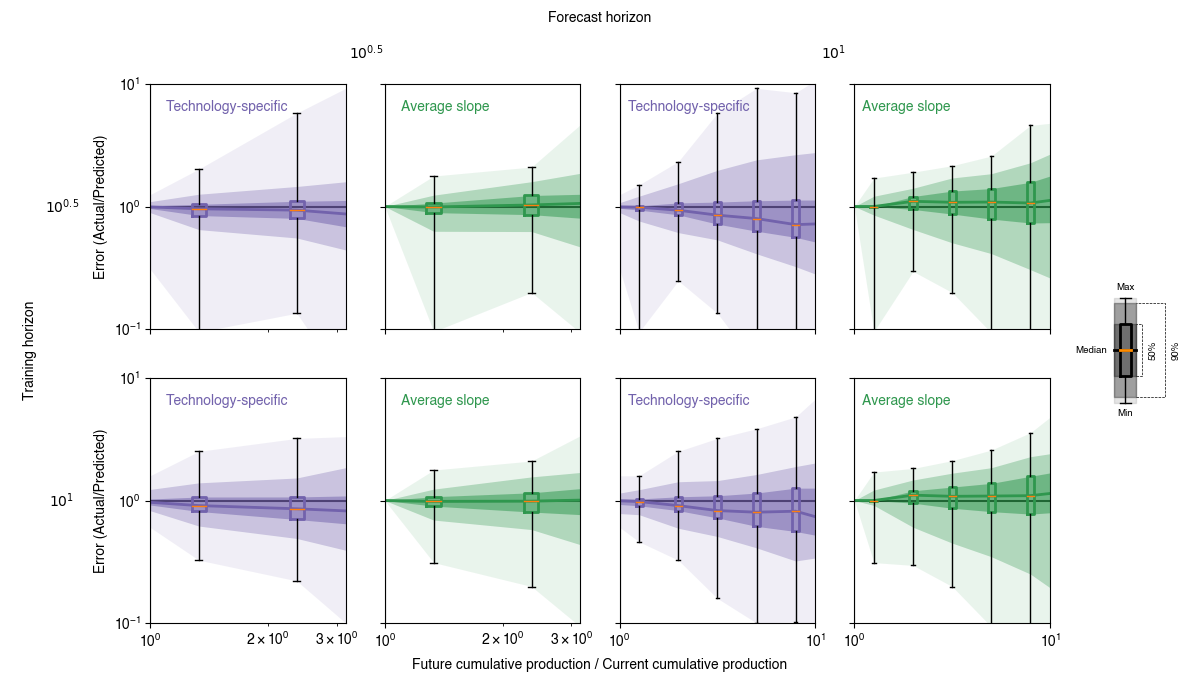
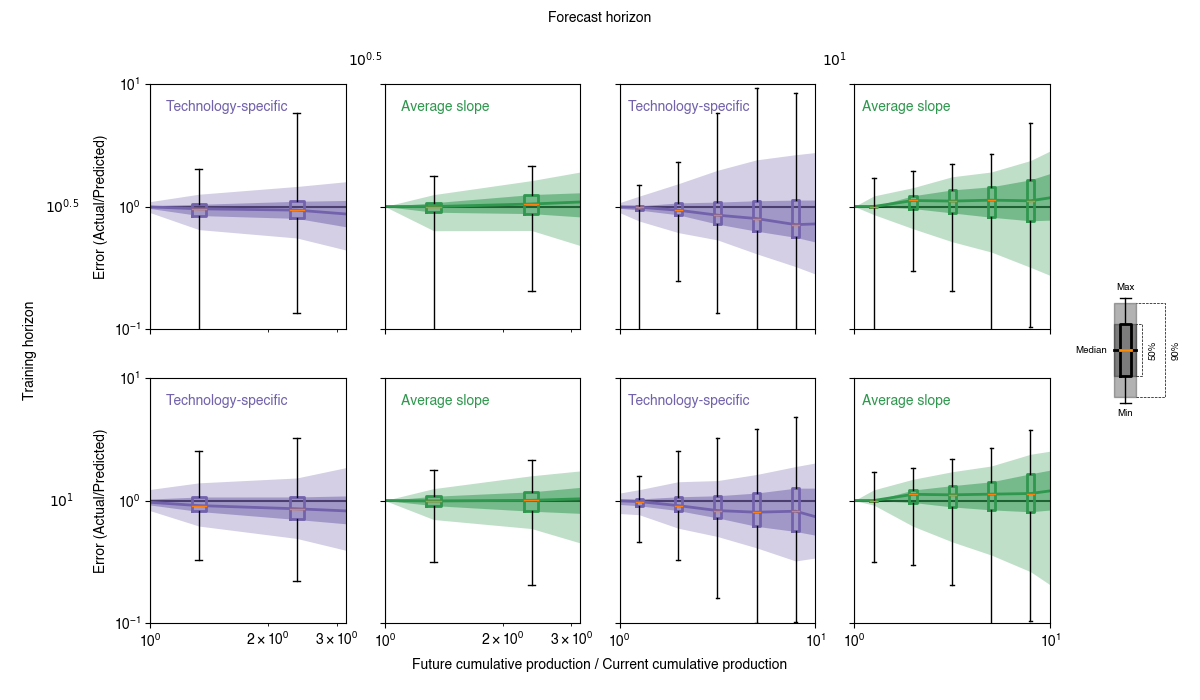
figures update after suggestions

diff --git a/plottingFunctions.py b/plottingFunctions.py
@@ -28,6 +28,15 @@ def scatterFigure(LR_cal, LR_val, length, title):
                       s = 50,
                       edgecolor='k')
     
+    vals = axscatter.scatter(LR_cal, LR_val, 
+                    #   c=length,
+                    #   norm = norm,
+                    #   cmap = cmap,
+                    #   alpha = 0.7,
+                      lw = 0.2,
+                      s = 50,
+                      edgecolor='k')
+    
     # compute R2
     if len(LR_cal) > 2:
         model = sm.OLS(LR_val, sm.add_constant(LR_cal))
@@ -46,10 +55,10 @@ def scatterFigure(LR_cal, LR_val, length, title):
     axscatter.set_xlim((-2,2))
     axscatter.set_ylim((-2,2))
     axscatter.set_aspect('equal', 'box')
-    cbar = figscatter.colorbar(vals, 
-                            cmap=cmap, norm=norm, 
-                            orientation='horizontal', shrink = 0.6)
-    cbar.set_label('Final cumulative production / Initial cumulative production')
+    # cbar = figscatter.colorbar(vals, 
+    #                         cmap=cmap, norm=norm, 
+    #                         orientation='horizontal', shrink = 0.6)
+    # cbar.set_label('Final cumulative production / Initial cumulative production')
     axscatter.set_title(title+' (N = '+str(len(LR_cal))+')')
     figscatter.tight_layout()
     return figscatter, axscatter
@@ -315,7 +324,7 @@ def plotPercentiles(centered, pct,
     ax1.plot(\
         [10**x for x in centered],10**pct[:,4], 
         color=color, lw=2, zorder=-2)
-    for r in range(2,-1,-1):
+    for r in range(2,0,-1):
         ax1.fill_between(\
             [10**x for x in centered], 
             10**pct[:,1+r], 10**pct[:,-r-1], 
@@ -452,8 +461,8 @@ def plotForecastErrorGrid(fErrsTech, fErrsAvg, Ranges,
                        color='k', alpha=0.3)
     axes1.fill_between([-.5,1.5],[0.05,0.05],[0.95,0.95], 
                        color='k', alpha=0.3)
-    axes1.fill_between([-.5,1.5],[0,0],[1.0,1.0], 
-                       color='k', alpha=0.1)
+    # axes1.fill_between([-.5,1.5],[0,0],[1.0,1.0], 
+    #                    color='k', alpha=0.1)
     axes1.plot([1.5,2,2,1.5],[0.25,0.25,0.75,0.75], color='k',
                linestyle='--',lw=0.5)
     axes1.plot([1.5,4,4,1.5],[0.05,0.05,0.95,0.95], color='k',
@@ -496,14 +505,20 @@ def plotForecastErrorGrid(fErrsTech, fErrsAvg, Ranges,
     return fig, ax
 
 def plotSlopeErrorGrid(fSlErrTech, fSlErrAvg, 
-                        trForOrds, Ranges):
+                        trForOrds, Ranges, vert=False):
     
     dim = int(len(trForOrds)**0.5)
 
     # create figure
     fig, ax = plt.subplots(dim, dim, sharex=True, sharey=True, figsize=(12,7))
 
-    xlim = [0,0]
+    lim = [0,0]
+
+    if vert==True:
+        positions = [1, 5]
+    else:
+        positions = [5, 1]
+
     for tf in trForOrds:
         
         # prepare axes
@@ -528,43 +543,56 @@ def plotSlopeErrorGrid(fSlErrTech, fSlErrAvg,
                             log = False)
 
         # plot boxplots and errorbars for 90% probability interval
-        ax_.bxp([statsTech[0]], positions = [3],
+        ax_.bxp([statsTech[0]], positions = [positions[0]],
                 widths = 1, showfliers=False,
                 boxprops=dict(color=cmapp(0.7), lw=2),
                 manage_ticks=False,
-                vert=False)
-        ax_.bxp([statsAvg[0]], positions = [1],
+                vert=vert)
+        ax_.bxp([statsAvg[0]], positions = [positions[1]],
                 widths = 1, showfliers=False,
                 boxprops=dict(color=cmapg(0.7), lw=2),
                 manage_ticks=False,
-                vert=False)
+                vert=vert)
         
-        ax_.errorbar(pctTech[1], 3, 0.5, c=cmapp(0.7))
-        ax_.errorbar(pctTech[5], 3, 0.5, c=cmapp(0.7))
-        ax_.errorbar(pctAvg[1], 1, 0.5, c=cmapg(0.7))
-        ax_.errorbar(pctAvg[5], 1, 0.5, c=cmapg(0.7))
-        ax_.plot([0,0],[-2,5], color='k', zorder=-10, alpha=0.25)
-        ax_.set_ylim(0,4)
-        ax_.set_yticks([1,3],['Average slope','Technology-specific'])
+        if vert == False:
+            ax_.errorbar(pctTech[1], positions[0], 0.5, c=cmapp(0.7))
+            ax_.errorbar(pctTech[5], positions[0], 0.5, c=cmapp(0.7))
+            ax_.errorbar(pctAvg[1], positions[1], 0.5, c=cmapg(0.7))
+            ax_.errorbar(pctAvg[5], positions[1], 0.5, c=cmapg(0.7))
+            ax_.plot([0,0],[-2,7], color='k', zorder=-10, alpha=0.25)
+            ax_.set_ylim(-1,7)
+            ax_.set_yticks([positions[0],positions[1]],['Technology-specific','Average slope'])
 
-        xlim[0] = min(ax_.get_xlim()[0], xlim[0])
-        xlim[1] = max(ax_.get_xlim()[1], xlim[1])
+            lim[0] = min(ax_.get_xlim()[0], lim[0])
+            lim[1] = max(ax_.get_xlim()[1], lim[1])
 
-        labs = ax_.get_yticklabels()
+            labs = ax_.get_yticklabels()
+        else:
+            ax_.errorbar(positions[0], pctTech[1], xerr=0.5, c=cmapp(0.7))
+            ax_.errorbar(positions[0], pctTech[5], xerr=0.5, c=cmapp(0.7))
+            ax_.errorbar(positions[1], pctAvg[1], xerr=0.5, c=cmapg(0.7))
+            ax_.errorbar(positions[1], pctAvg[5], xerr=0.5, c=cmapg(0.7))
+            ax_.plot([-2,7], [0,0], color='k', zorder=-10, alpha=0.25)
+            ax_.set_xlim(-1,7)
+            ax_.set_xticks([positions[0],positions[1]],['Technology-specific','Average slope'])
+
+            lim[0] = min(ax_.get_ylim()[0], lim[0])
+            lim[1] = max(ax_.get_ylim()[1], lim[1])
+
+            labs = ax_.get_xticklabels()
         if labs:
-            print(labs)
-            print(labs[0])
-            print(labs[1])
-
             labs[1].set_color(cmapp(0.7))
             labs[0].set_color(cmapg(0.7)) 
 
-    xlim[0] = min(xlim[0], -xlim[1])
-    xlim[1] = max(xlim[1], -xlim[0])
-    for ax_ in ax:
-        for ax__ in ax_:
-            ax__.set_xlim(xlim)
-
+        lim[0] = min(lim[0], -lim[1])
+        lim[1] = max(lim[1], -lim[0])
+        for ax_ in ax:
+            for ax__ in ax_:
+                if vert == False:
+                    ax__.set_xlim(lim)
+                else:
+                    ax__.set_ylim(lim)
+        
     ax[0][0].annotate('Learning rate error (Actual-Predicted) [%]',
                       xy = (0.5,0.05), xycoords='figure fraction',
                         ha='center', va='center')

diff --git a/Method3.py b/Method3.py
@@ -33,6 +33,9 @@ analysisFunctions.performTPairedTest(errpred, errpred2)
 
 analysisFunctions.performWilcoxonSignedRankTest(errpred, errpred2)
 
+analysisFunctions.performTPairedTest(slopeErrTech, slopeErrAvg)
+
+analysisFunctions.performWilcoxonSignedRankTest(slopeErrTech, slopeErrAvg)
 
 # t, t1, t2, z, z1, z2 = analysisFunctions.performMonteCarloTests(errpred, errpred2)
 
@@ -41,8 +44,8 @@ analysisFunctions.performWilcoxonSignedRankTest(errpred, errpred2)
 
 
 # repeat the analysis with changing forecast and training horizon
-trOrds = [0.5,1,2]
-forOrds = [0.5,1,2]
+trOrds = [0.5,1]
+forOrds = [0.5,1]
 for tOrd in trOrds:
     for fOrd in forOrds:
 
@@ -54,19 +57,30 @@ for tOrd in trOrds:
         columns = ['Forecast horizon', 'Error', 'Tech']
         dferrTech = pd.DataFrame(dferrTech, columns = columns)
         dferrAvg = pd.DataFrame(dferrAvg, columns=columns)
+        slopeErrTech = pd.DataFrame(slopeErrTech, columns = columns)
+        slopeErrAvg = pd.DataFrame(slopeErrAvg, columns=columns)
         
         errpred = []
         errpred2 = []
+        slopeErrTech_ = []
+        slopeErrAvg_ = []    
         for tech in dferrTech['Tech'].unique():
             errpred.append(dferrTech.loc[dferrTech['Tech']==tech, 'Error'].values)
             errpred2.append(dferrAvg.loc[dferrAvg['Tech']==tech, 'Error'].values)
-        
+            slopeErrTech_.append(slopeErrTech.loc[slopeErrTech['Tech']==tech, 'Error'].values)
+            slopeErrAvg_.append(slopeErrAvg.loc[slopeErrAvg['Tech']==tech, 'Error'].values)
+
         print('\n\n\n')
         print(tOrd, fOrd)
 
         analysisFunctions.performTPairedTest(errpred, errpred2)
 
         analysisFunctions.performWilcoxonSignedRankTest(errpred, errpred2)
+
+        analysisFunctions.performTPairedTest(slopeErrTech_, slopeErrAvg_)
+
+        analysisFunctions.performWilcoxonSignedRankTest(slopeErrTech_, slopeErrAvg_)
+
 
         # t, t1, t2, z, z1, z2 = analysisFunctions.performMonteCarloTests(errpred, errpred2)
 

diff --git a/createDataset.py b/createDataset.py
@@ -65,10 +65,11 @@ for tech in df['Tech'].unique():
 	s = df.loc[df['Tech']==tech].copy()
 	ax[0].plot(s['Normalized cumulative production'], 
 	 s['Normalized unit cost'],
-	 color=analysisFunctions.sectorsColor[s['Sector'].values[0]],
-	 alpha=1,
+	#  color=analysisFunctions.sectorsColor[s['Sector'].values[0]],
+	 color='k',
+	 alpha=0.7,
 	 marker = 'o',
-	 markersize=0.2,
+	 markersize=0.5,
 	 lw=0.25,
 	 zorder=-s['Normalized cumulative production'].values[-1])
 	last.append(s['Normalized cumulative production'].values[-1])
@@ -95,21 +96,23 @@ for x in last:
 availsy = [
 	[avails[s][x][1] for x in range(len(avails[s])) ] 
 	for s in df['Sector'].unique() ]
-ax[1].stackplot(avail[0],availsy, colors = [analysisFunctions.sectorsColor[s] for s in df['Sector'].unique()])
-ax[1].plot(avail[0],avail[1], 'k', lw=0.5)
+# ax[1].stackplot(avail[0],availsy, colors = [analysisFunctions.sectorsColor[s] for s in df['Sector'].unique()])
+ax[1].plot(avail[0],avail[1], 'k', lw=1)
 ax[0].set_xscale('log', base=10)
 ax[0].set_yscale('log', base=10)
 ax[1].set_xlabel('Normalized cumulative production')
 ax[0].set_ylabel('Normalized unit cost')
 ax[1].set_ylabel('Technologies available')
 
-legend_elements = [
-	matplotlib.lines.Line2D([0],[0],lw=1, 
-			color = analysisFunctions.sectorsColor[sector],
-			label = sector)
-			for sector in df['Sector'].unique() ]
-fig.legend(handles=legend_elements, title='Sector', loc='center right')
-fig.subplots_adjust(right=0.8, top=0.95, bottom=0.1, hspace=0.05)
+# legend_elements = [
+# 	matplotlib.lines.Line2D([0],[0],lw=1, 
+# 			color = analysisFunctions.sectorsColor[sector],
+# 			label = sector)
+# 			for sector in df['Sector'].unique() ]
+# fig.legend(handles=legend_elements, title='Sector', loc='center right')
+# fig.subplots_adjust(right=0.8, top=0.95, bottom=0.1, hspace=0.05)
+fig.subplots_adjust(right=0.9, left=0.1, top=0.95, bottom=0.1, hspace=0.05)
+
 plt.show()
 
 exit()

diff --git a/analysisFunctions.py b/analysisFunctions.py
@@ -469,6 +469,10 @@ def performTPairedTest(errpred, errpred2, verbose=True):
     # compute RMSE and difference in RMSE
     RMSEdiff = []
     for t,a in zip(errpred, errpred2):
+        if not( type(t) == list ):
+            t = [t]
+        if not( type(a) == list ):
+            a = [a]
         e1 = np.mean([x**2 for x in t])**0.5
         e2 = np.mean([x**2 for x in a])**0.5
         # e1 = np.mean([x**2 for x in t])
@@ -497,6 +501,10 @@ def performWilcoxonSignedRankTest(errpred, errpred2, verbose=True):
     # compute RMSE and difference in RMSE
     RMSEdiff = []
     for t,a in zip(errpred, errpred2):
+        if not( type(t) == list ):
+            t = [t]
+        if not( type(a) == list ):
+            a = [a]
         e1 = np.mean([x**2 for x in t])**0.5
         e2 = np.mean([x**2 for x in a])**0.5
         # e1 = np.mean([x**2 for x in t])

diff --git a/Method1.py b/Method1.py
@@ -32,15 +32,6 @@ LR_cal, LR_val, slopesall, \
     slopeErr, slopeErr2 = \
         analysisFunctions.computeRegPredError(df, fraction, points)
 
-import seaborn
-fig, ax = plt.subplots(2,1, sharex=True, sharey=True)
-seaborn.boxplot(slopeErr, ax=ax[0], color='purple', orient='h')
-seaborn.boxplot(slopeErr2, ax=ax[1], color='green', orient='h')
-print(sum(np.abs(slopeErr)))
-print(sum(np.abs(slopeErr2)))
-# ax.set_xlim(-3,3)
-plt.show()
-
 print("Average Wright's exponent: ",np.mean(slopesall), 
     "\nAverage percentage cost reduction" + \
         " per doubling of cumulative production: ", 

diff --git a/Method2.py b/Method2.py
@@ -97,6 +97,8 @@ fig, ax = plottingFunctions.plotForecastErrorGrid(fErrsTech, fErrsAvg,
 #              [2, 2]]
 fig, ax = plottingFunctions.plotSlopeErrorGrid(fSlErrTech, fSlErrAvg, 
                                                trForOrds, Ranges)
+fig, ax = plottingFunctions.plotSlopeErrorGrid(fSlErrTech, fSlErrAvg, 
+                                               trForOrds, Ranges, vert=True)
 plt.show()
 exit()
 # Figure 3: summary boxplots
